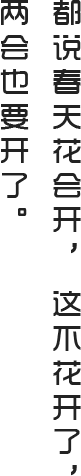
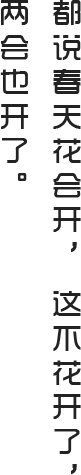
sss

diff --git a/src/css/index.css b/src/css/index.css
@@ -350,15 +350,15 @@ body {
 .p2 .c1 {
     position: absolute;
     top: 10%;
-    left: 25%;
+    left: 20%;
     width: 50%;
-    height: 240px;
+    height: 80%;
 }
 
 .p2 .c1-1 {
     width: 30%;
     background: url("../image/p2/font_1.png") no-repeat top;
-    background-size: 61%;
+    background-size: 80%;
     -webkit-animation-delay: .8s;
     -moz-animation-delay: .8s;
     -ms-animation-delay: .8s;
@@ -366,9 +366,9 @@ body {
 }
 
 .p2 .c1-2 {
-    width: 45%;
+    width: 33%;
     background: url("../image/p2/font_2.png") no-repeat top;
-    background-size: 66%;
+    background-size: 80%;
     -webkit-animation-delay: 1.6s;
     -moz-animation-delay: 1.6s;
     -ms-animation-delay: 1.6s;
@@ -376,9 +376,9 @@ body {
 }
 
 .p2 .c1-3 {
-    width: 15%;
+    width: 20%;
     background: url("../image/p2/font_3.png") no-repeat top;
-    background-size: 43%;
+    background-size: 50%;
     -webkit-animation-delay: 2.4s;
     animation-delay: 2.4s;
 }

diff --git a/index.html b/index.html
@@ -234,8 +234,8 @@
 <script src="./src/js/fireworks.js" type="text/javascript"></script>
 <script>
     var num = 0;
-    var rate = 300;
-    var lazy = 1000;
+    var rate = 10;
+    var lazy = 0;
     var pages = 8;
     var loading = document.getElementById('loading');
     var loadNum = document.getElementById('loadNum');
